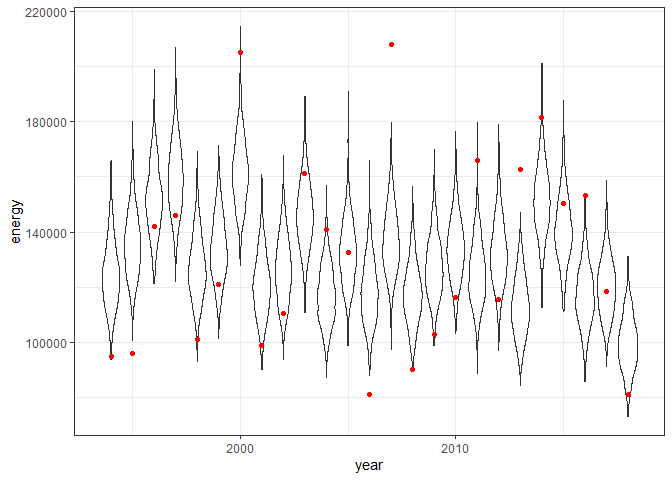
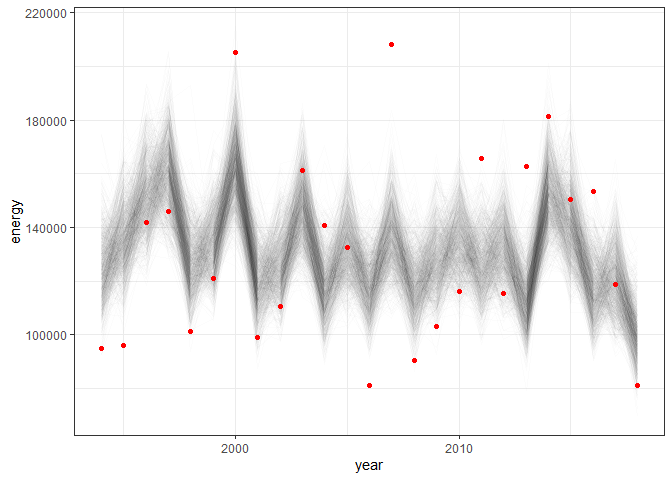
temporal resampling

diff --git a/stories/hartland.md b/stories/hartland.md
@@ -291,50 +291,64 @@ There are a variety of ways we could construct our ur-ISD:
 
 ![](hartland_files/figure-gfm/compare%20ur%20isd%20methods-1.png)<!-- -->![](hartland_files/figure-gfm/compare%20ur%20isd%20methods-2.png)<!-- -->
 
-The mean one is considerably broader/less well defined than the
-all-the-individuals-at-once one. I’m not sure what to make of that.
+The plots above are both constructed based on KDEs. There are
+assumptions and artefacts in there I’m not quite 100% on: the weighting
+of samples from different time steps. I also have a well-worn mental
+module that likes to construct ISDs via kdes or GMMs and then get
+started comparing them via overlap, etc. I’d like to explore something a
+little different at the moment, so I’m going to actually put a pin in
+things derived from KDEs and work instead off of pools of individuals.
 
+![](hartland_files/figure-gfm/unaltered%20individuals-1.png)<!-- -->
+
+This is the distribution of sizes of all the individuals we’ve ever seen
+on this route.
+
+One possibility is that we’re equally likely to draw any of these
+individuals at any time step, and so we expect the ISD we observe at any
+time step to be a random sample of \(N_t\) of all of these individuals.
 Alternatively, there could be substantively different underlying ISDs we
 are drawing our \(N_t\) individuals from, and the underlying ISDs could
 vary systematically over time or orthogonal/not-detectably-parallel-to
 time.
 
-![](hartland_files/figure-gfm/isd%20playing-1.png)<!-- -->
+These possibilities go fairly deep in their implications. We can start
+by thinking about it in terms of energy?
 
-### Randomizing the ISD
+Energy could vary without a systematic trend if the ISD at each time
+step is generated via the random draws from an ur-ISD. But that
+variation might or might not rise to the magnitude we observe here.
 
-![](hartland_files/figure-gfm/randomize%20isd-1.png)<!-- -->
+### Energy variability from a randomized isd
 
-Here is something I’ve done mostly following intuition. I think it shows
-how each year’s observed total energy use scores relative to if it had
-tracked an overall single ISD. This is a bootstrapping/simulating
-approach intended to get a sense of some of the variation from lowish N,
-and start to partition abundance from ISD.
+    ## Joining, by = "year"
 
-The violins represent the distribution of *total energy values* for 1000
-bootstrap sampled ISDs. Each simulated ISD is a draw of the *observed
-number of individuals* from the pool of *all individuals observed across
-all years*. The pool includes the individuals actually observed that
-year. I’ve done it with or without replacement and I don’t see a big
-obvious difference, but there are numerous questions in a similar vein
-that one could chase down. You could do an ISD as equal weight to each
-timestep (regardless of abundance) and then the mean density at each
-body size; that would remove some weight from time steps with high
-abundances. It also might be preferable to remove the observed year from
-the pool.
+![](hartland_files/figure-gfm/randomize%20isd-1.png)<!-- -->![](hartland_files/figure-gfm/randomize%20isd-2.png)<!-- -->
 
-So one thing I find interesting about this exercise is to ask whether
-the position of the observed E shifts systematically over time.
+    ## `stat_bin()` using `bins = 30`. Pick better value with `binwidth`.
 
-I think, for observations to be consistent with a *single unchanging
-ISD* from which we draw N individuals at random every year, you’d expect
-the total E to track the violins.
+![](hartland_files/figure-gfm/randomize%20isd-3.png)<!-- -->
+
+The cloud of lines represent the distribution of *total energy values*
+for 1000 bootstrap sampled ISDs. The histogram is the coefficient of
+variation (sd/mean) for E over every simulation; the red line is the
+observed. The observed E time series is way more variable than any of
+the ones that we generated by resampling from a stable ISD.
+
+Similarly, the cloud of dots visualizes the variation in
+energy-abundance relation obtained via sampling. Compared to the red
+dots, which are observed.
+
+One thing I find interesting about this exercise is to ask whether the
+position of the observed E shifts systematically over time.
+
+![](hartland_files/figure-gfm/position%20over%20time-1.png)<!-- -->
 
 It might be interesting to look at comparisons to the overall ISD, vs a
 pool from a local short time period, vs a pool from the same number of
 time steps randomly distributed. So, how does E in 1990 compare to a
 random draw from a pool of 1988, 1989, 1991, 1992, vs a random draw from
-a pool of 2009, 2004, 1994, 2001? If observations are closer to a local
+a pool of 2007, 1994, 1990, 2019? If observations are closer to a local
 moving average ISD, than to one randomly dispersed in time, you have
 some kind of temporal structure in the variability. But if not, there’s
 variability but it’s not structured temporally.
